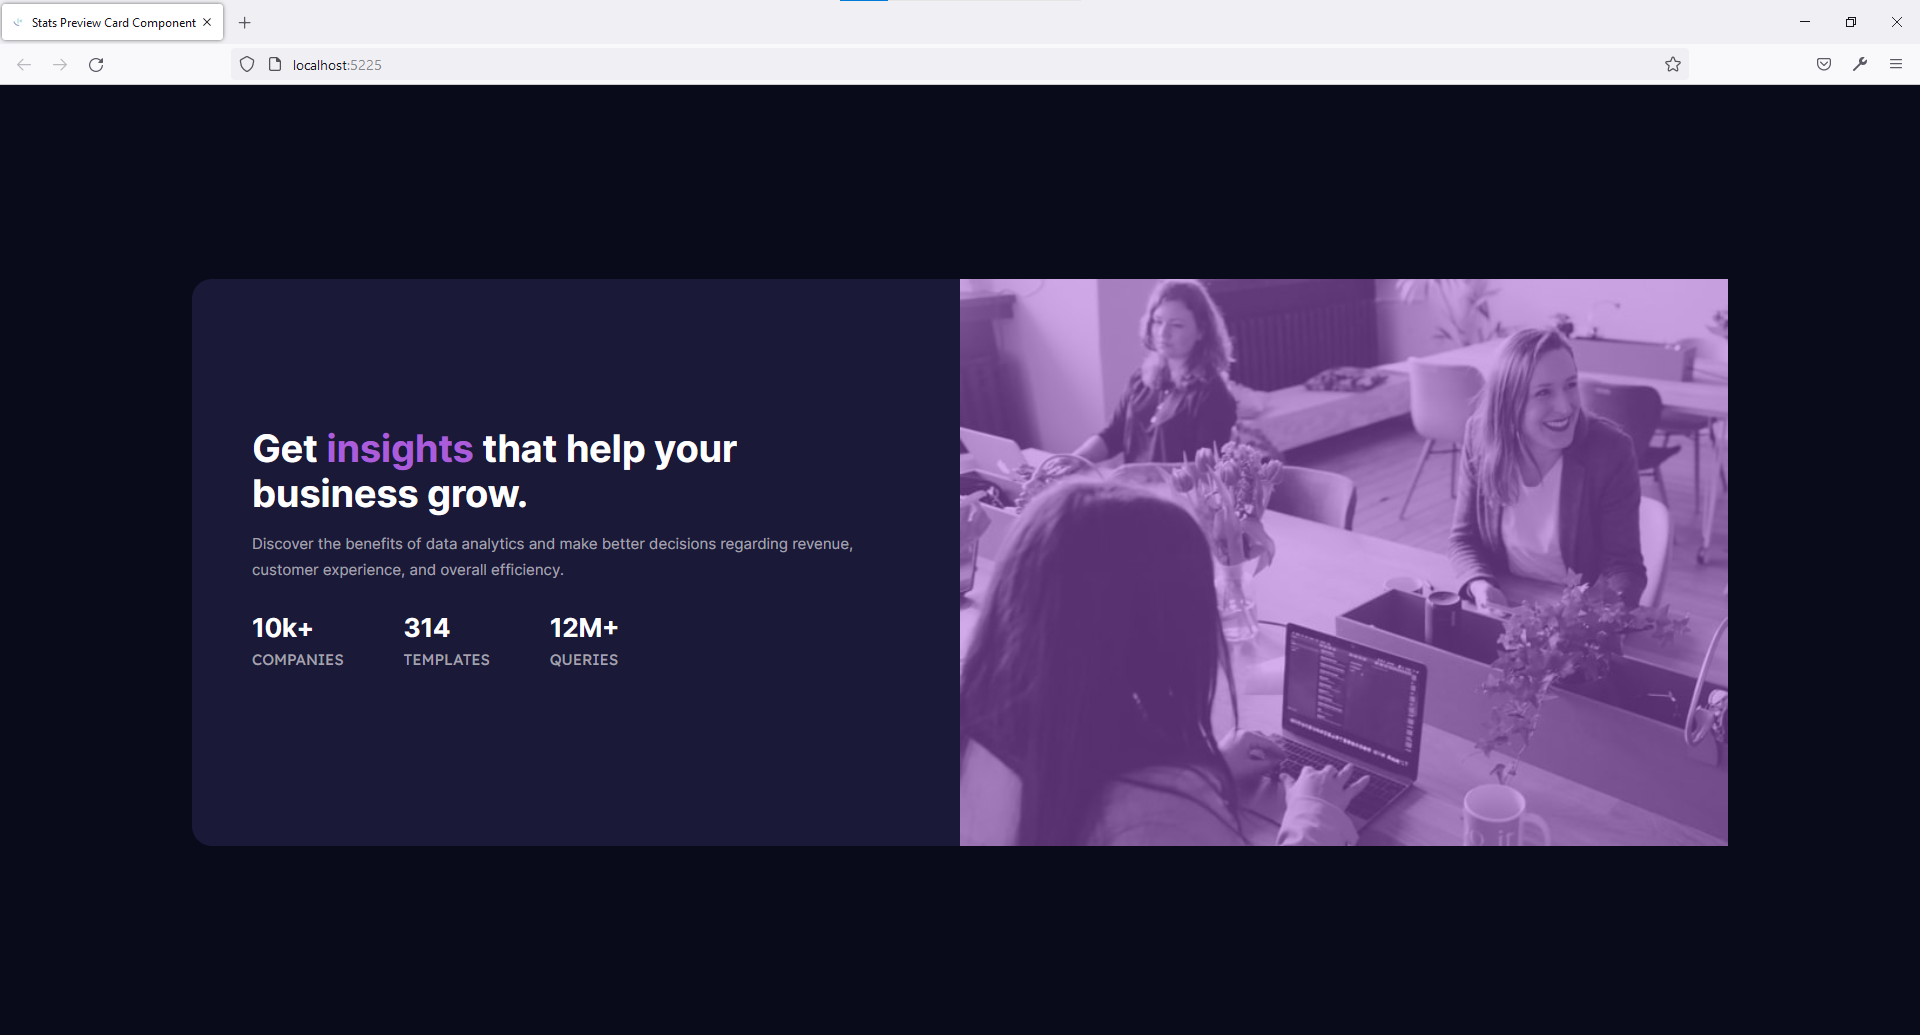
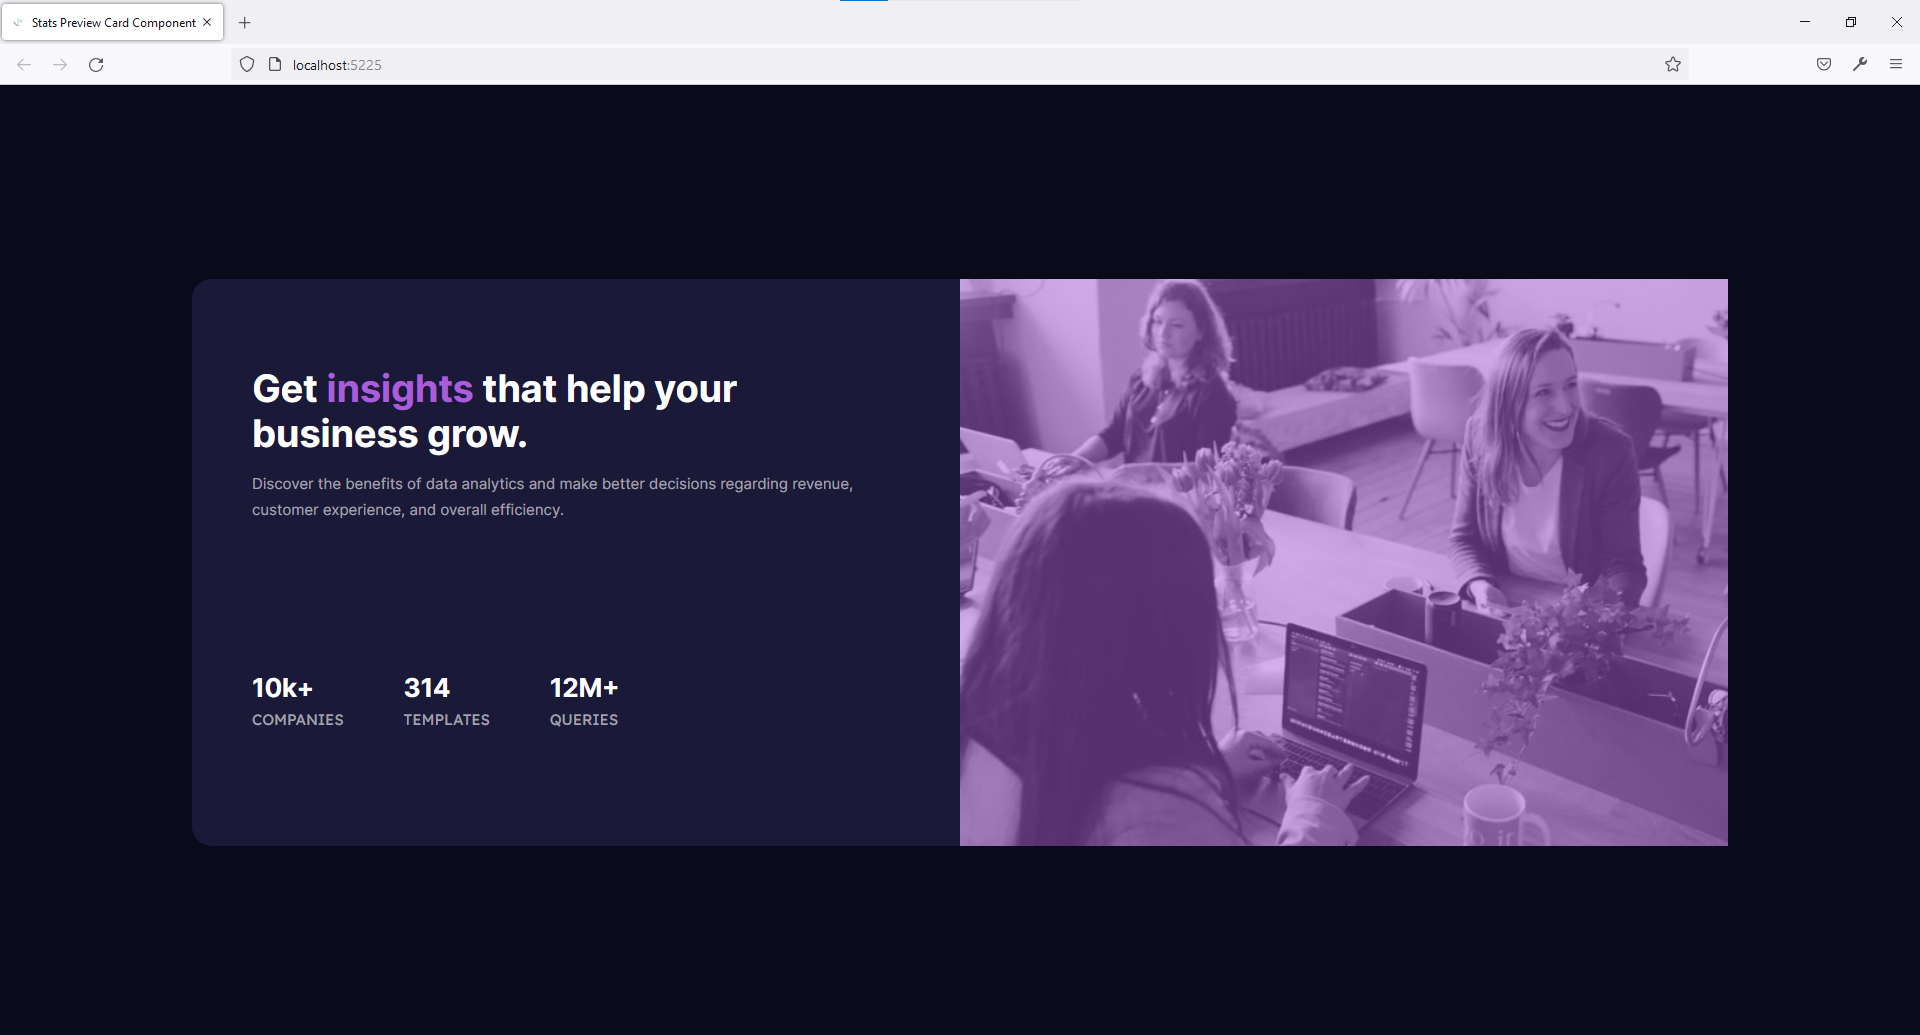
Added card-p margin bottom.

diff --git a/UI/wwwroot/css/style.css b/UI/wwwroot/css/style.css
@@ -145,6 +145,9 @@ main{
         text-align: left;
         padding: 4rem;
     }
+    .card-p{
+        margin-bottom: 10rem;
+    }
     .flex-row{
         display: flex;
     }
